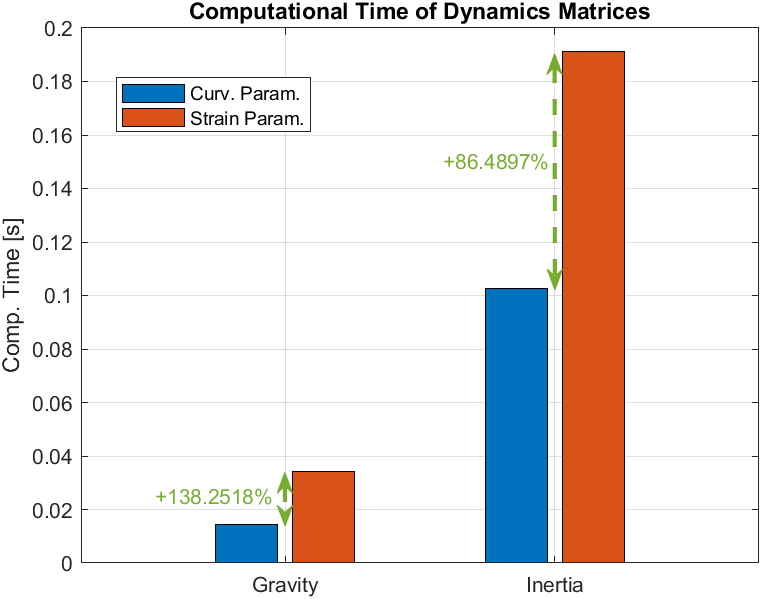
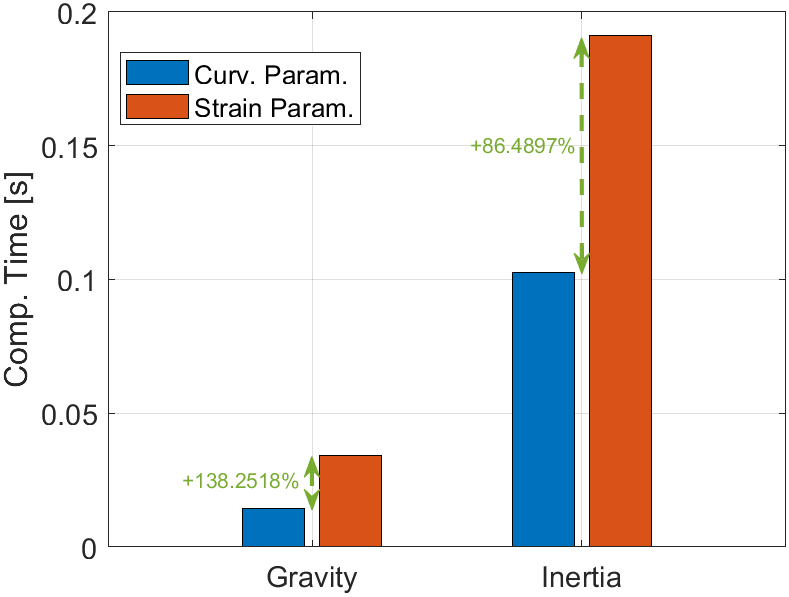
test rsip

diff --git a/MATLAB/Renda_Model/RSIP_cp_like/plot_script.m b/MATLAB/Renda_Model/RSIP_cp_like/plot_script.m
@@ -4,28 +4,29 @@ close all
 clc
 
 %% Load Dynamics Solution
-load("DynamicsSolution.mat");
-
-%% Plot Trajectory
-plot(t, qqd(:, 1:3));
-grid on
-title("Controlled R-SIP GE-approach: Step traj.")
-xlabel("time [s]")
-ylabel("q")
+load("step_result.mat");
+% load("atan_result.mat");
 
 %% Desired Trajectory
 start_time = 15;
-for i = 1:length(t)
-%     theta_rd(i) = atan(t(i) - start_time);
 
-    if t(i) <= start_time
-        theta_rd(i) = -pi/2;
+for i = 1:length(result.simout.time)
+    % desired_traj(i) = atan(result.simout.time(i) - start_time);
+
+    if result.simout.time(i) <= start_time
+        desired_traj(i) = -pi/2;
     else
-        theta_rd(i) = pi/2;
+        desired_traj(i) = pi/2;
     end
 end
 
+%% Plot Trajectory
+figure
+plot(result.simout.time, result.simout.data, 'LineWidth', 2.0);
+grid on
+xlabel("Time [s]");
+ylabel("q");
 hold on
-plot(t, theta_rd)
+plot(result.simout.time, desired_traj, '--', 'LineWidth', 2.0);
 hold off
-legend("\theta_{r}", "q_0", "q_1", "\theta_{rd}")
+legend("\theta_r", "q_0", "q_1", "\theta_{rd}")

diff --git a/MATLAB/Renda_Model/RSIP_cp_like/RSIP_construction.m b/MATLAB/Renda_Model/RSIP_cp_like/RSIP_construction.m
@@ -4,9 +4,9 @@ clear all
 clc
 
 % My startup
-cd ..
-my_startup
-cd RSIP_cp_like
+% cd ..
+% my_startup
+% cd RSIP_cp_like
 
 %% Parameters
 length = 1.0;                   % Length of SIP
@@ -29,20 +29,21 @@ disp("Damping: " + num2str(damp));
 %% Links Definition
 % L1 = SorosimLink;
 % save("Link_Properties2.mat");
-load("Link_Properties2.mat");
+% load("Link_Properties2.mat");
 
 %% Open Chain Definition
 % T1 = SorosimLinkage(L1);
 load("R_sip2.mat")
 %% Plot Initial Configuration
-T1.plotq0
+% T1.plotq0
 
 %% Save R-SIP
 % save("R_sip2.mat", 'T1')
 % save("R_sip_cp.mat", 'T1')
 
 %% Save function handle
-% soft_dynamics = @(t, qqd) T1.derivatives(t, qqd, cell(T1.nact, 1));
+soft_dynamics = @(t, qqd) T1.derivatives(t, qqd, cell(T1.nact, 1));
+save("dynamics_handle2.mat")
 
 %% Simulation
 % q0 = [0; pi/4; -pi/4];

diff --git a/MATLAB/Renda_Model/RSoft_InvertedPendulum/computational_comparison.m b/MATLAB/Renda_Model/RSoft_InvertedPendulum/computational_comparison.m
@@ -22,7 +22,7 @@ y = [inertia_santina, inertia_renda; gravity_santina gravity_renda];
 
 figure
 bar(x, y)
-title("Computational Time of Dynamics Matrices");
+% title("Computational Time of Dynamics Matrices");
 ylabel("Comp. Time [s]");
 legends = legend("Curv. Param.", "Strain Param.");
 set(legends,...
